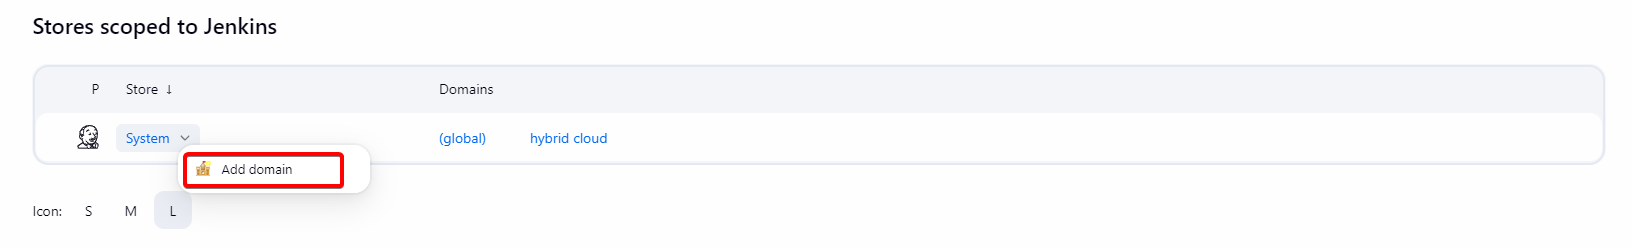
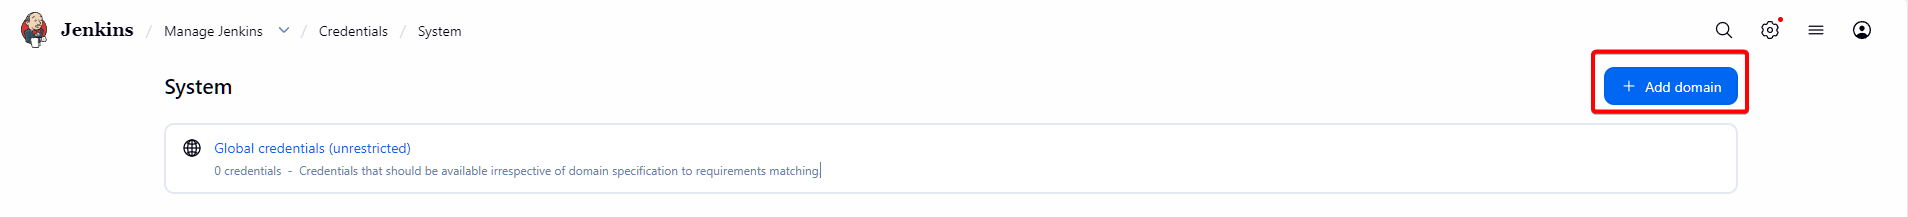
Update

diff --git a/docs/DevOps/Practices/Hybrid Cloud/06-ConfigJenkins.md b/docs/DevOps/Practices/Hybrid Cloud/06-ConfigJenkins.md
@@ -4,25 +4,37 @@ Sau khi đã có "trạm chỉ huy" GitLab ở [bài trước](06-ConfigJenkins.
 
 ![alt text](./images/day06/image.png)
 
-## 1. Cài đặt Plugins
+## 1. Lấy mật khẩu quản trị (Root) lần đầu tiên
+
+Tương tự như `gitlab`, ta cũng cần lấy `initialPassword` cho jenkins. Để lấy mật khẩu này, bạn cần thực hiện lệnh sau trên máy VM:
+
+```bash
+# Thay 'jenkins' bằng tên container của bạn nếu bạn đặt tên khác trong docker-compose
+sudo docker exec -it jenkins cat /var/jenkins_home/secrets/initialAdminPassword
+```
+
+## 2. Cài đặt Plugins
 
 Để Jenkins có thể xử lý được luồng Hybrid-Cloud phức tạp, bạn cần cài đặt bộ tứ Plugin sau (Vào **Manage Jenkins** -> **Plugins**):
 
 ![alt text](./images/day06/image-1.png)
 
-1. **Role-based Authorization Strategy:** Để tạo ra cơ chế phân quyền (RBAC) chuẩn doanh nghiệp.
-2. **Docker Pipeline:** Cho phép Jenkins chạy các lệnh Docker ngay trong script.
-3. **Pipeline Graph View:** Để chúng ta có cái nhìn trực quan về các bước build.
+1. **[Role-based Authorization Strategy](https://plugins.jenkins.io/role-strategy/):** Để tạo ra cơ chế phân quyền (RBAC) chuẩn doanh nghiệp.
+2. **[Docker Pipeline](https://plugins.jenkins.io/docker-workflow/):** Cho phép Jenkins chạy các lệnh Docker ngay trong script.
+3. **[Blue Ocean](https://plugins.jenkins.io/blueocean/):** Đây là plugin mang lại trải nghiệm người dùng (UX) hiện đại cho Jenkins, thay thế giao diện "Classic" cũ kỹ
+4. **[Gitlab](https://plugins.jenkins.io/gitlab-plugin/):** Plugin hỗ trợ kết nối `Jenkins` với `Gitlab`
 
 :::tip[Plugin for SSH]
-Nếu bạn lựa chọn kết nối Jenkins với Gitlab thông qua SSH key thì cần phải cài thêm **SSH agent**, plugin này cho phép pipeline sử dụng SSH key để clone/push code
+Nếu bạn lựa chọn kết nối Jenkins với Gitlab thông qua SSH key thì cần phải cài thêm [**SSH agent**](https://plugins.jenkins.io/ssh-agent/), plugin này cho phép pipeline sử dụng SSH key để clone/push code
 :::
 
-## 2. Quản lý Credentials
+## 3. Quản lý Credentials
 
-Để tiện cho việc quản lý credentials theo từng project, chúng ta có thể khởi tạo domain `hybrid-cloud` để chứa những token liên quan đến project
+Để tiện cho việc quản lý credentials theo từng project, chúng ta cần tạo domain `Hybrid Cloud` để chứa những token liên quan đến project
 
-![credentials](./images/day06/image-3.png)
+1. Truy cập theo đường dẫn để tạo `https://<your-jenkins-domain>/manage/credentials/store/system/`
+   ![credentials](./images/day06/image-3.png)
+2. Đặt tên domain là `Hybrid Cloud`
 
 :::tip[Advance]
 Nếu muốn cấu hình domain một cách chuyên nghiệp hơn thì có thể sử dụng thêm cấu hình filter hostname/URI khi tạo `domain`
@@ -31,4 +43,4 @@ Nếu muốn cấu hình domain một cách chuyên nghiệp hơn thì có thể
 
 ## Kết luận
 
-Jenkins đã sẵn sàng, ở bài tiếp theo, chúng ta sẽ hoàn thiện cấu hình Jenkins, từ kết nối với Gitlab và phân quyền một cách hoàn chỉnh cho `QA`. Hẹn gặp lại các bạn ở **Bài 7: Jenkins Security - Phân quyền RBAC nâng cao**
+Jenkins đã sẵn sàng, ở bài tiếp theo, chúng ta sẽ hoàn thiện cấu hình Jenkins, từ kết nối với Gitlab và phân quyền một cách hoàn chỉnh cho `QA`. Hẹn gặp lại các bạn ở [**Bài 7: Jenkins Security - Phân quyền RBAC nâng cao**](07-ConfigRoleJenkins.md)

diff --git a/docs/DevOps/Practices/Hybrid Cloud/05-ConfigGitLab.md b/docs/DevOps/Practices/Hybrid Cloud/05-ConfigGitLab.md
@@ -71,11 +71,12 @@ Việc tách đôi giúp tránh lỗi "vòng lặp vô tận". Nếu bạn để
 
 ---
 
-### 3. Cấu hình
+## 3. Cấu hình
 
 Để Jenkins có thể "nói chuyện" được với GitLab thông qua Domain chúng ta đã cấu hình ở [Bài 4](./04-ConfigNPM.md) và có thể clone/push code lên repository thì ta cần phải thực hiện vài việc sau:
 
-**3.1. Sửa lỗi đường dẫn Clone (External URL)**
+### 3.1. Sửa lỗi đường dẫn Clone (External URL)
+
 Nếu bạn thấy link clone trên GitLab hiện IP container hoặc `localhost`, hãy vào file cấu hình `gitlab.rb` trên máy chủ và chỉnh sửa:
 
 ```bash
@@ -84,7 +85,8 @@ external_url 'http://gitlab.codebyluke.io.vn'
 
 Sau đó chạy `gitlab-ctl reconfigure`. Lúc này, mọi đường dẫn sẽ chuẩn hóa theo Domain qua Nginx Proxy Manager.
 
-**3.2. Kết nối bằng SSH Key (Dành cho máy dev)**
+### 3.2. Kết nối bằng SSH Key (Dành cho máy dev)
+
 Thay vì dùng mật khẩu (kém an toàn), chúng ta sử dụng cặp khóa SSH:
 
 - Tạo key trên máy local của bạn với câu lệnh: `ssh-keygen -t ed25519`.
@@ -107,7 +109,7 @@ Host gitlab-personal
 ssh -T git@gitlab-personal
 ```
 
-**3.3. Personal Access Token (PAT) - Chìa khóa cho sự tự động**
+### 3.3. Personal Access Token (PAT) - Chìa khóa cho sự tự động
 
 Để Jenkins có quyền "thay mặt" bạn cập nhật phiên bản ứng dụng vào Repo `ecommerce-manifest`, bạn cần tạo hai **Personal Access Token**
 
@@ -118,10 +120,9 @@ Quy trình thực hiện như sau:
 
 - Vào **User Settings** -> **Personal Access Tokens**.
 - Đặt tên cho token.
-- Tích chọn quyền tương ứng
-- Lưu mã Token này lại để sử dụng cho bài sau
+- Tích chọn quyền tương ứng (**Lưu mã Token này lại để sử dụng cho bài sau**)
 
-  ![pat](./images/day05/image-3.png)
+![pat](./images/day05/image-3.png)
 
 :::tip[Security fix cho Gilab]
 Trong quá trình làm, mình từng gặp lỗi Jenkins không thể clone code dù đã add đúng Key. Hóa ra là do GitLab chạy trong Docker có cơ chế bảo mật chặn các yêu cầu từ mạng nội bộ (Outbound requests).
@@ -131,7 +132,7 @@ Trong quá trình làm, mình từng gặp lỗi Jenkins không thể clone code
 
 ---
 
-### Kết luận
+## Kết luận
 
 Xong Bài 5, chúng ta đã có một "trạm chỉ huy" GitLab cực kỳ chuẩn chỉnh với tư duy GitOps hiện đại. Mọi thứ đã sẵn sàng để được kéo về và xử lý bởi bộ máy thực thi.
 

diff --git a/docs/DevOps/Practices/Hybrid Cloud/07-ConfigRoleJenkins.md b/docs/DevOps/Practices/Hybrid Cloud/07-ConfigRoleJenkins.md
@@ -4,6 +4,22 @@
 
 ![alt text](./images/day07/image.png)
 
+## Kích hoạt Role-based Strategy Plugin
+
+Trước khi cấu hình, ta cần phải kích hoạt plugin trước. Quy trình như sau:
+
+1. Truy cập vào **Security** trong Jenkins
+
+![jenkins security](./images/day07/image-7.png)
+
+2. Chuyển cơ chế **Authorization** thành `Role-based Strategy`
+
+![jenkins authorization](./images/day07/image-8.png)
+
+3. Nhấn **Save**
+
+Tiếp theo, ta sẽ tìm hiểu và cấu hình role theo best practices trong Jenkins
+
 ## Phân quyền QA: Best Practices với RBAC
 
 Trong plugin **Role-based Authorization Strategy**, sai lầm phổ biến là cấp quyền trực tiếp vào Global Role.
@@ -40,9 +56,8 @@ Tuyệt đối **KHÔNG** cấp quyền `Administer`, `Credentials`, hay `Run Sc
 
 Đây là "chìa khóa phòng làm việc". Chúng ta sẽ giới hạn QA chỉ được tác động vào đúng dự án họ phụ trách.
 
-- **Pattern (Quan trọng):** Sử dụng Regex để khớp tên Job. Ví dụ: `ecommerce-.*` (QA chỉ nhìn thấy các Job bắt đầu bằng từ khóa `ecommerce-`).
-
-> Ở đây ta sẽ setup Pattern với giá trị `Hybrid-cloud` để thuận tiện cho bài lab
+- **Pattern:** Sử dụng Regex để khớp tên Job. Ví dụ: `ecommerce-.*` (QA chỉ nhìn thấy các Job bắt đầu bằng từ khóa `ecommerce-`).
+  > Ở đây ta sẽ setup Pattern với giá trị `Hybrid-cloud` để thuận tiện cho bài lab
 
 :::danger[Quan trọng]
 Đừng dùng `.*` nếu bạn không muốn QA thấy cả các Job bảo trì hệ thống.
@@ -63,6 +78,8 @@ Tuyệt đối **KHÔNG** cấp quyền `Administer`, `Credentials`, hay `Run Sc
 - `Job/Delete` (Xóa job).
 
 :::
+
+**P/s:** Nhớ nhấn **Save** để lưu lại cấu hình
 
 ### 3. Assign Roles
 

diff --git a/docs/DevOps/Practices/Hybrid Cloud/08-ConfigCredentialsJenkins.md b/docs/DevOps/Practices/Hybrid Cloud/08-ConfigCredentialsJenkins.md
@@ -37,7 +37,7 @@ Dưới đây là bảng tổng hợp danh sách Credentials cần tạo trên J
 
 ## 2. Cấu hình kết nối GitLab (Integration)
 
-Bạn còn nhớ 2 token ở **Gitlab** tạo ở [bài 5](05-ConfigGitLab.md) không? Bây giờ chúng ta sẽ sử dụng tại đây
+Bạn còn nhớ 2 token ở **Gitlab** tạo ở [bài 5](05-ConfigGitLab.md#33-personal-access-token-pat---chìa-khóa-cho-sự-tự-động) không? Bây giờ chúng ta sẽ sử dụng tại đây
 
 ### Bước 1: Tạo Credential cho System (Kết nối API)
 
@@ -124,7 +124,7 @@ Import trên Jenkins:
 - **ID:** `gcp-service-account-key`
 
 :::danger
-Cách này chỉ dùng cho mục đích bài lab, không nên sử dụng trong thực tế vì có khả năng bị lộ key.
+Cách này chỉ dùng cho mục đích bài lab, không nên sử dụng trong thực tế vì có khả năng bị lộ key. Thay vào đó nên sử dụng [Workload Identity Federation](https://docs.cloud.google.com/iam/docs/workload-identity-federation)
 :::
 
 ## Kết luận
